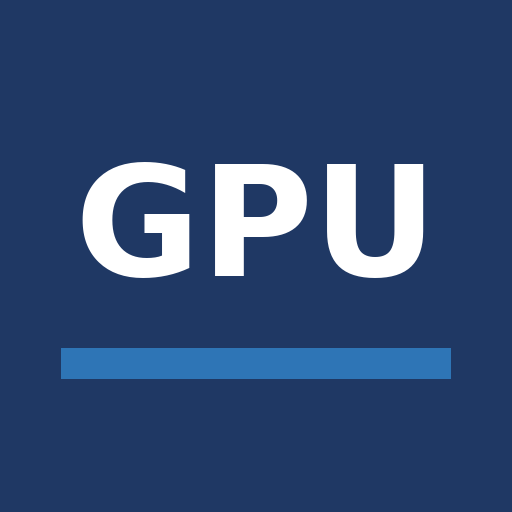
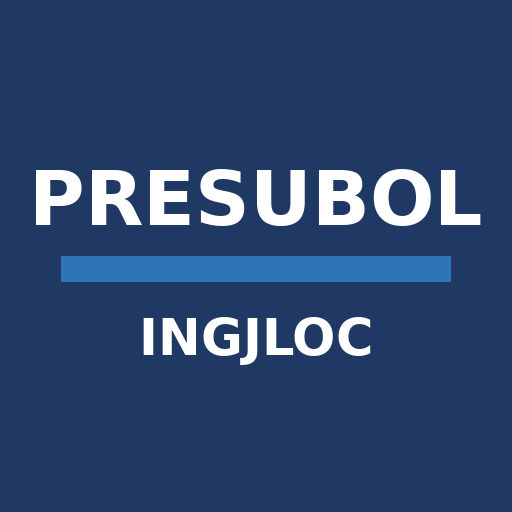
Add files via upload

Changed region(s): [[0.0625, 0.3125, 0.9375, 0.5625], [0.0938, 0.5938, 0.9062, 0.75]]

diff --git a/index.html b/index.html
@@ -1,7 +1,7 @@
 <!DOCTYPE html>
 <html lang="es"><head><meta charset="utf-8">
 <meta name="viewport" content="width=device-width, initial-scale=1, viewport-fit=cover">
-<title>GPU PRO · Precios Unitarios</title>
+<title>PRESUBOL - INGJLOC</title>
 <link rel="manifest" href="manifest.webmanifest"><meta name="theme-color" content="#1f3864"><link rel="icon" href="icon-192.png"><link rel="apple-touch-icon" href="icon-192.png">
 <style>
 :root{--bg:#f4f6fa;--card:#fff;--tx:#1b2433;--mu:#6b7686;--pr:#1f3864;--ac:#2e75b6;--bd:#dde3ec;--er:#c0392b;--in:#eaf1fb;--hd:#1f3864;box-sizing:border-box;padding-top:env(safe-area-inset-top,0px);padding-bottom:env(safe-area-inset-bottom,0px)}
@@ -39,7 +39,7 @@ nav button{flex:1;border:0;background:none;color:var(--mu);padding:8px 2px;font-
 @media print{body>*:not(#rp){display:none!important}#rp{display:block;color:#000;background:#fff;font:11px/1.35 Arial,sans-serif}@page{size:A4;margin:12mm 12mm 16mm;@bottom-right{content:"Pág. " counter(page) " de " counter(pages);font:9px Arial;color:#666}}:root{padding:0!important}body{padding:0!important;background:#fff}}
 #rp table{width:100%;border-collapse:collapse;margin:6px 0}#rp th{background:#1f3864;color:#fff;padding:4px;text-align:left;font-size:10px}#rp td{border-bottom:1px solid #ccc;padding:3px 4px;vertical-align:top}#rp .r{text-align:right;white-space:nowrap}#rp h2{font-size:15px;color:#1f3864;margin:0}#rp .hdr{display:flex;justify-content:space-between;align-items:center;border-bottom:2px solid #1f3864;padding-bottom:8px;margin-bottom:8px}#rp .ap{break-inside:avoid;page-break-inside:avoid;margin-top:14px}#rp .tt td{font-weight:700}#rp thead{display:table-header-group}#rp tr{break-inside:avoid;page-break-inside:avoid}
 </style></head><body>
-<header class="hd"><h1 id="ht"></h1></header><main id="v"></main>
+<header class="hd"><div style="font-size:11px;opacity:.8;letter-spacing:.04em">PRESUBOL - INGJLOC</div><h1 id="ht"></h1></header><main id="v"></main>
 <nav><button data-a="go" data-t="proj" id="n-proj">📁<span>Proyectos</span></button><button data-a="go" data-t="pres" id="n-pres">📋<span>Presupuesto</span></button><button data-a="go" data-t="apu" id="n-apu">🧱<span>APU</span></button><button data-a="go" data-t="ins" id="n-ins">🔧<span>Insumos</span></button><button data-a="go" data-t="set" id="n-set">⚙<span>Ajustes</span></button></nav>
 <div id="ts" class="ts"></div><div id="rp"></div>
 <script>
@@ -287,7 +287,7 @@ return h+`</div><h3>Subir o bajar precios por tipo (solo este proyecto)</h3><div
 function bkBanner(){return Date.now()-(U.lb||0)>6048e5?`<div class="card" style="border-color:var(--er)"><b>Respaldo pendiente</b><div class="mu">${U.lb?'Pasó más de una semana desde tu último respaldo.':'Todavía no hiciste ningún respaldo.'} Tus datos viven solo en este navegador.</div><button class="btn" data-a="bkdl">Descargar respaldo ahora</button></div>`:''}
 ACT.rep=d=>{rv=rv===d.t?'':d.t;render()};
 ACT.ptype=()=>{const p=CP();p.pr=p.pr||{};let n=0;U.items.forEach(it=>{const a=A(it.c);if(!a)return;a.l.forEach(l=>{const i=IM()[l[0]];if(!i||!pct[i[1]])return;p.pr[i[0]]=Math.round(gp(i)*(1+pct[i[1]]/100)*100)/100;n++})});save();render();toast(n?'Precios actualizados en este proyecto':'Poné un % en algún tipo')};
-ACT.bkdl=()=>{U.lb=Date.now();save();const b=new Blob([JSON.stringify(U)],{type:'application/json'}),a=document.createElement('a');a.href=URL.createObjectURL(b);a.download='respaldo_GPU_'+new Date().toISOString().slice(0,10)+'.json';document.body.appendChild(a);a.click();setTimeout(()=>{URL.revokeObjectURL(a.href);a.remove()},4000);render();toast('Respaldo descargado')};
+ACT.bkdl=()=>{U.lb=Date.now();save();const b=new Blob([JSON.stringify(U)],{type:'application/json'}),a=document.createElement('a');a.href=URL.createObjectURL(b);a.download='respaldo_PRESUBOL_'+new Date().toISOString().slice(0,10)+'.json';document.body.appendChild(a);a.click();setTimeout(()=>{URL.revokeObjectURL(a.href);a.remove()},4000);render();toast('Respaldo descargado')};
 IN.pcx=(v,d)=>{pct[+d.id]=N(v)};CH.wi=(v,d,c)=>{wi=c};CH.wc=(v,d,c)=>{wc=c};
 CH.bkf=(v,d,c,t)=>{const x=t.files[0];if(!x)return;x.text().then(s=>{try{U=norm(JSON.parse(s));save();render();toast('Respaldo importado')}catch(e){toast('Archivo no válido')}})};
 let cmI=null,wm=true;

diff --git a/sw.js b/sw.js
@@ -1,4 +1,4 @@
-const C='gpu-pro-v2',F=['./','index.html','manifest.webmanifest','icon-192.png','icon-512.png'];
+const C='presubol-v3',F=['./','index.html','manifest.webmanifest','icon-192.png','icon-512.png'];
 self.addEventListener('install',e=>{e.waitUntil(caches.open(C).then(c=>c.addAll(F)).then(()=>self.skipWaiting()))});
 self.addEventListener('activate',e=>{e.waitUntil(caches.keys().then(k=>Promise.all(k.filter(x=>x!==C).map(x=>caches.delete(x)))).then(()=>self.clients.claim()))});
 self.addEventListener('fetch',e=>{if(e.request.method!=='GET')return;e.respondWith(caches.open(C).then(c=>c.match(e.request,{ignoreSearch:true}).then(m=>{const n=fetch(e.request).then(r=>{if(r&&r.ok)c.put(e.request,r.clone());return r}).catch(()=>m);return m||n})))});
